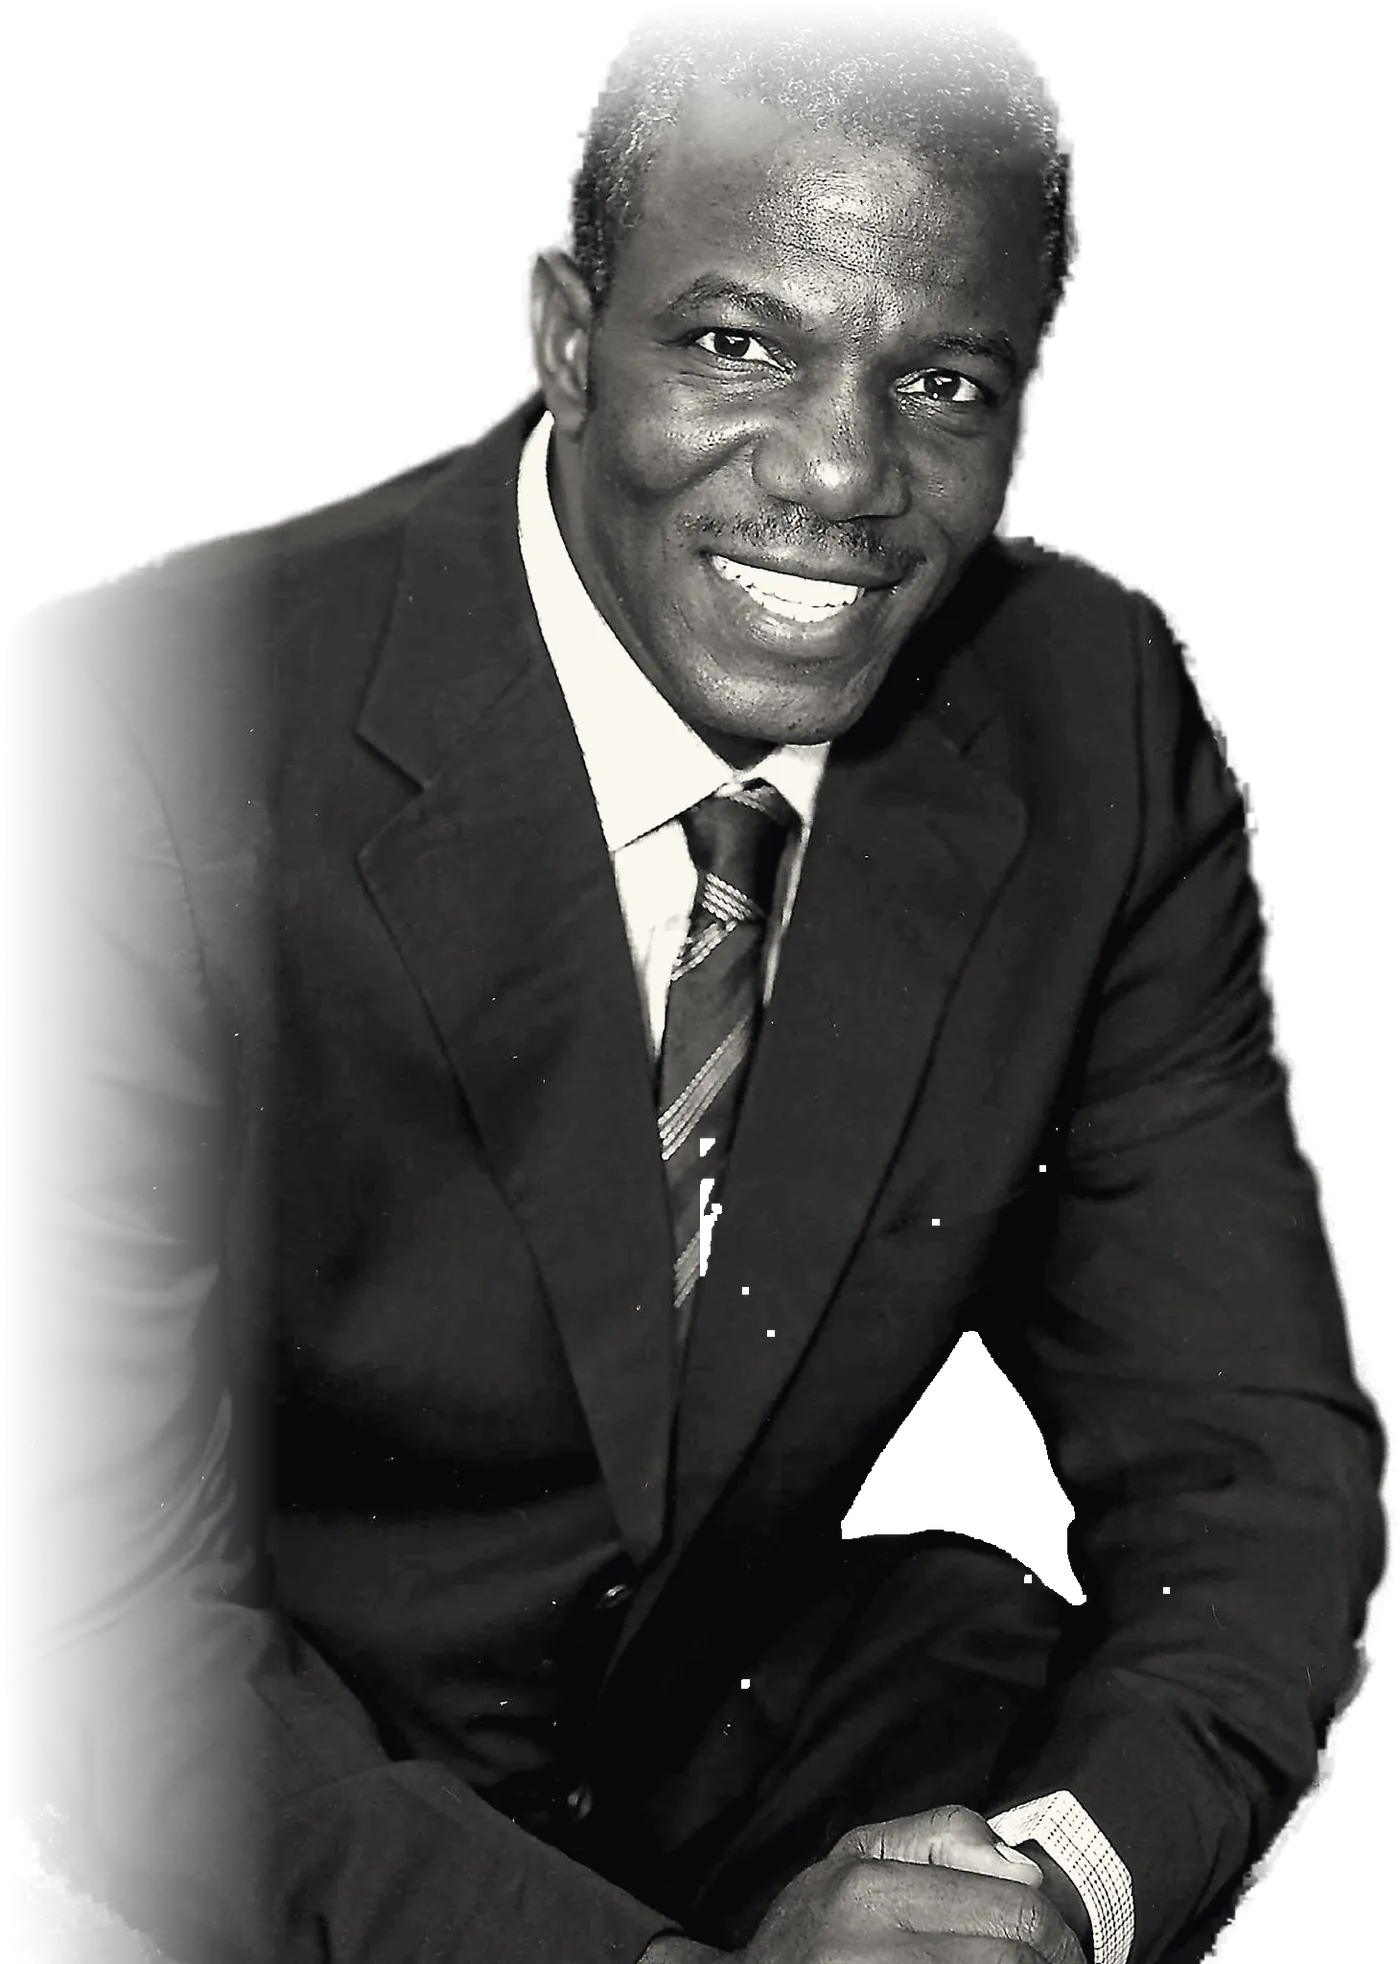
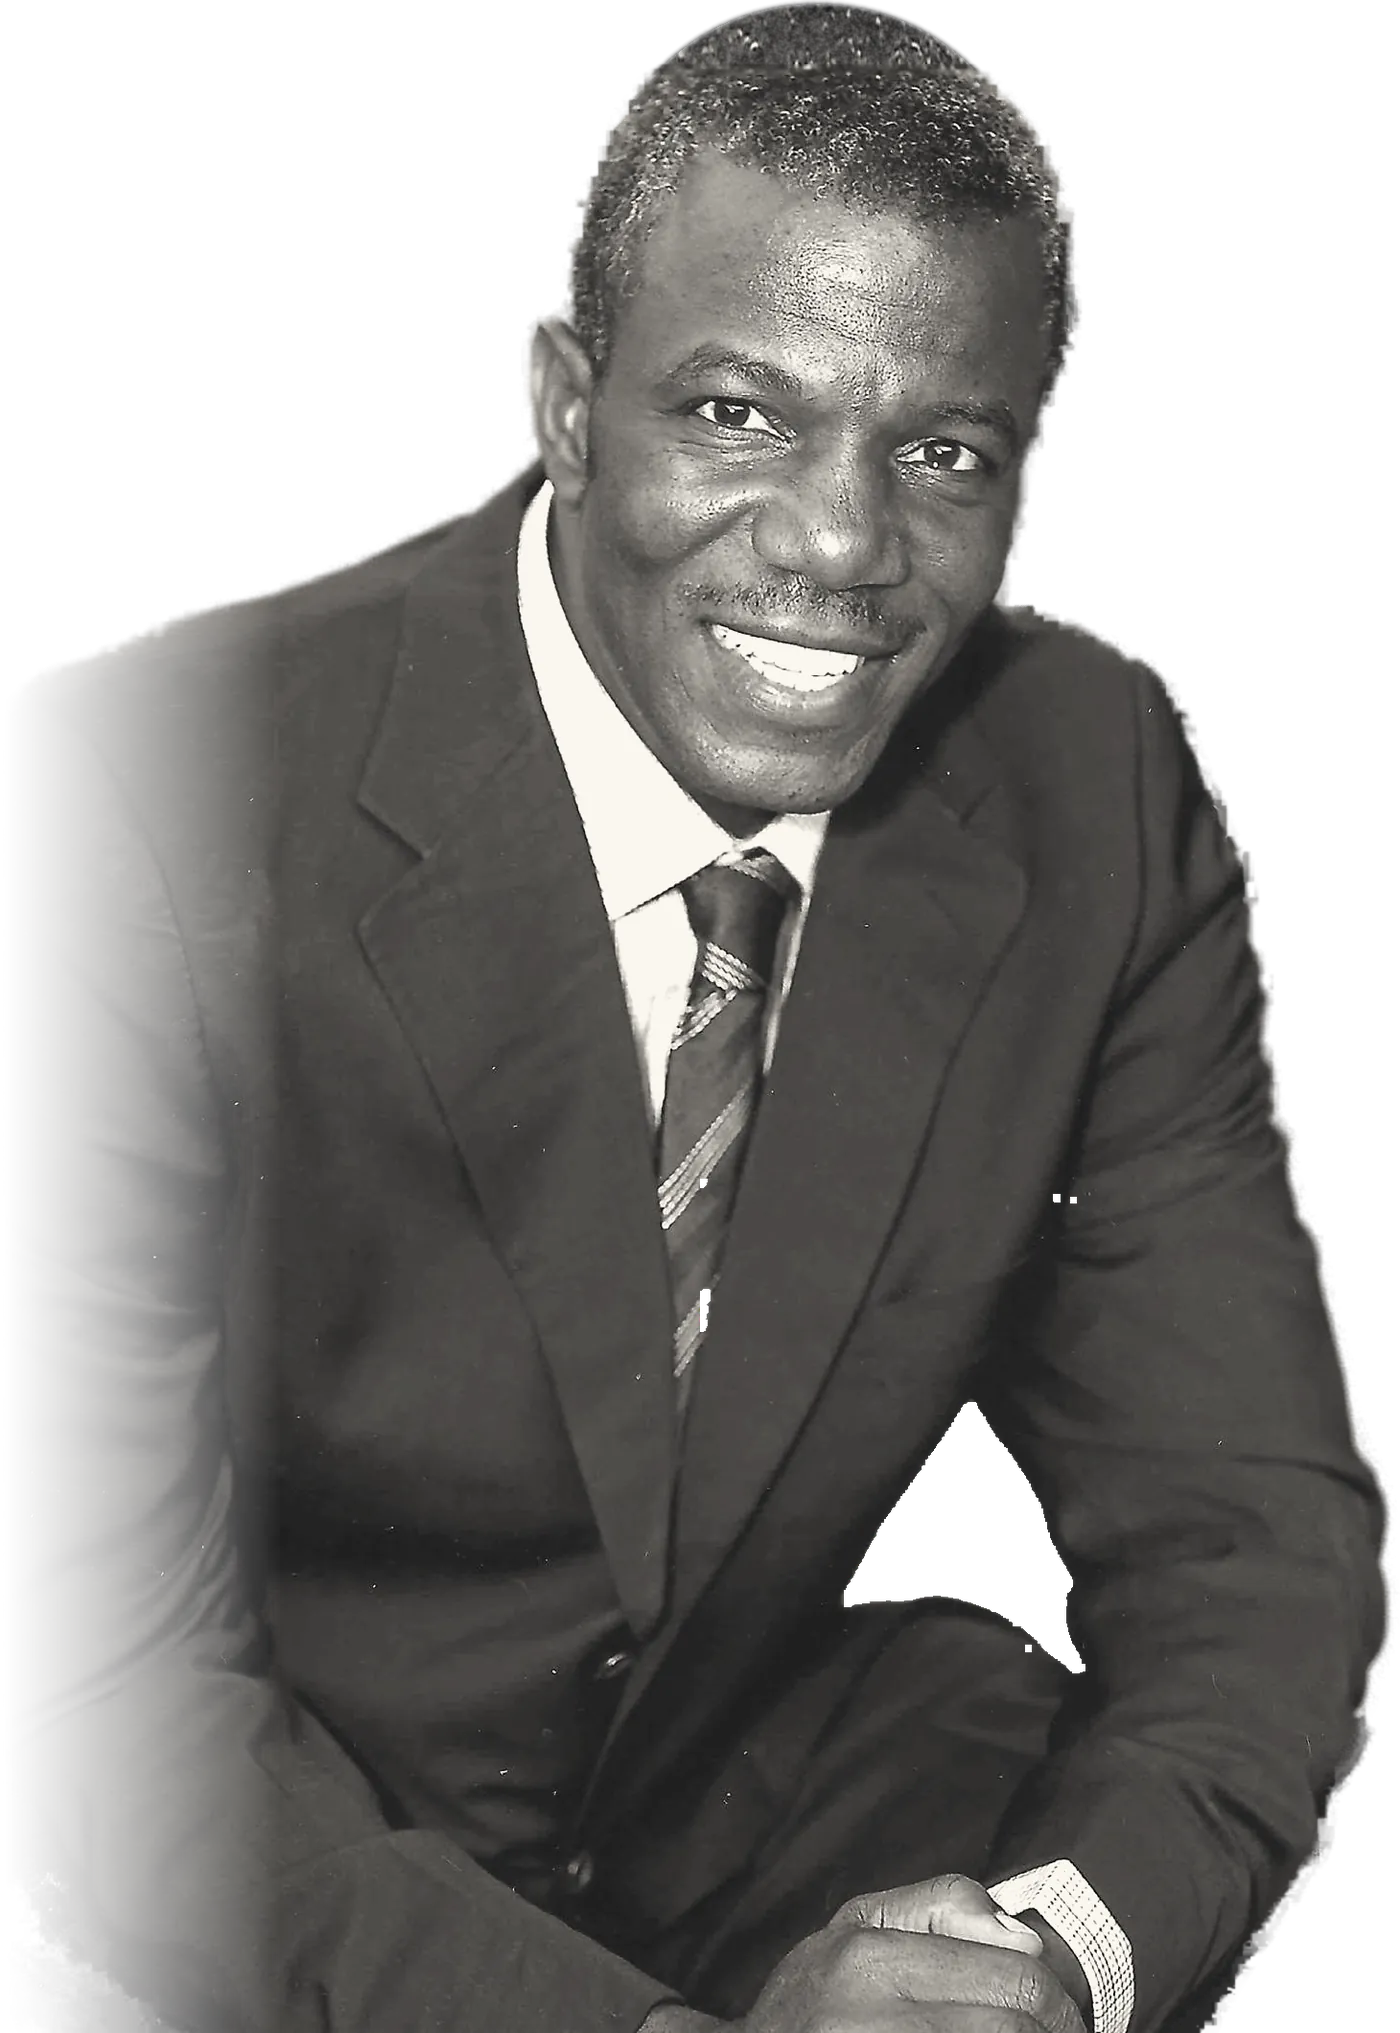
Hero portrait: complete the cropped crown (retouch from his own hair), solid head; lower JACOB so only the top halves of C/O show above his head
Claude-Session: https://claude.ai/code/session_01EWQzoRbBESKLoLZM4GKCC3

diff --git a/src/pages/Home.tsx b/src/pages/Home.tsx
@@ -73,7 +73,7 @@ function HeroName() {
   return (
     <motion.div
       aria-hidden
-      className="absolute inset-x-0 top-[23%] md:top-[30%] z-[1] flex justify-center pointer-events-none select-none"
+      className="absolute inset-x-0 top-[24.5%] md:top-[30%] z-[1] flex justify-center pointer-events-none select-none"
       initial={reduce || phone ? false : { opacity: 0, letterSpacing: '0.35em' }}
       animate={reduce || phone ? undefined : { opacity: 1, letterSpacing: '0.04em' }}
       transition={{ duration: 2.2, delay: 0.5, ease }}
@@ -122,7 +122,7 @@ function Hero() {
         alt="Dr. Jacob Familoni"
         fetchPriority="high"
         decoding="async"
-        className="absolute bottom-0 left-1/2 z-[2] h-[70svh] md:h-[86svh] w-auto max-w-none -translate-x-[50%] md:-translate-x-[38%] object-contain object-bottom"
+        className="absolute bottom-0 left-1/2 z-[2] h-[67svh] md:h-[86svh] w-auto max-w-none -translate-x-[50%] md:-translate-x-[38%] object-contain object-bottom"
         style={{ aspectRatio: String(heroMedia.figureRatio) }}
         initial={reduce ? false : { opacity: 0, y: 40 }}
         animate={{ opacity: 1, y: 0 }}

diff --git a/src/lib/content.ts b/src/lib/content.ts
@@ -60,7 +60,7 @@ export const heroMedia = {
   // Studio cut-out (real photo, background removed, black-and-white). Replace with a dedicated shoot when available.
   figureSrc: '/media/familoni-studio-1080.webp',
   figureSrcSet: '/media/familoni-studio-640.webp 640w, /media/familoni-studio-1080.webp 1080w, /media/familoni-studio-1400.webp 1400w',
-  figureRatio: 1460 / 2048,
+  figureRatio: 1460 / 2120,
 }
 
 // Photos supplied by the team. Place/date captions are PLACEHOLDERS until confirmed.
